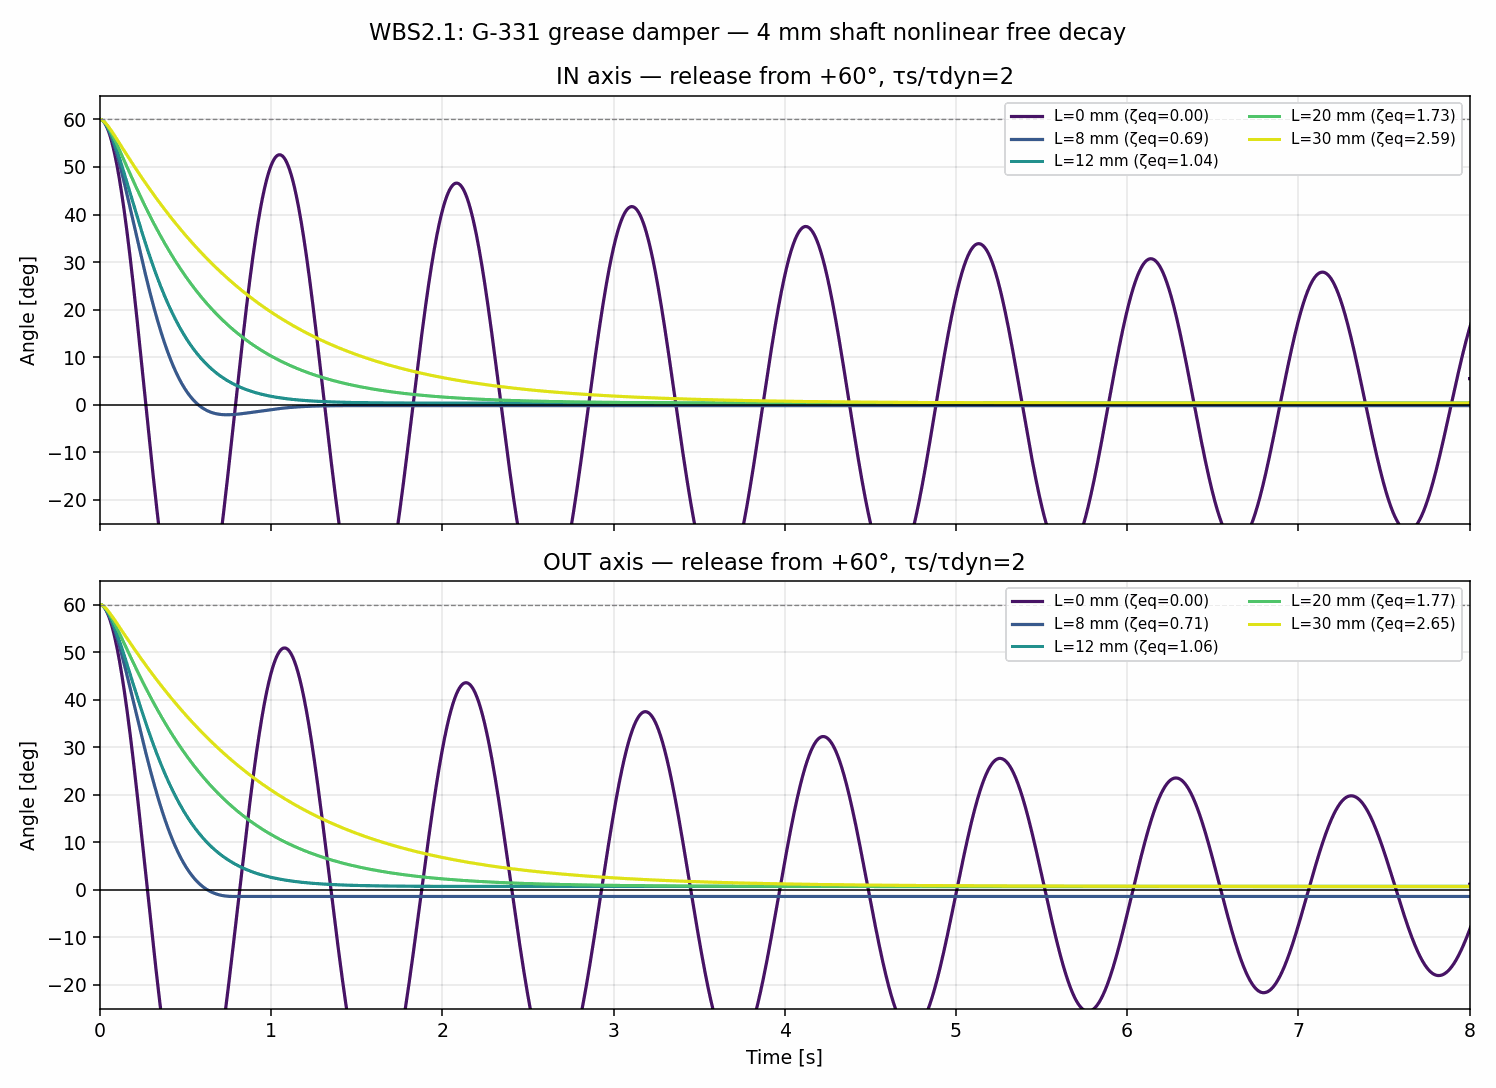
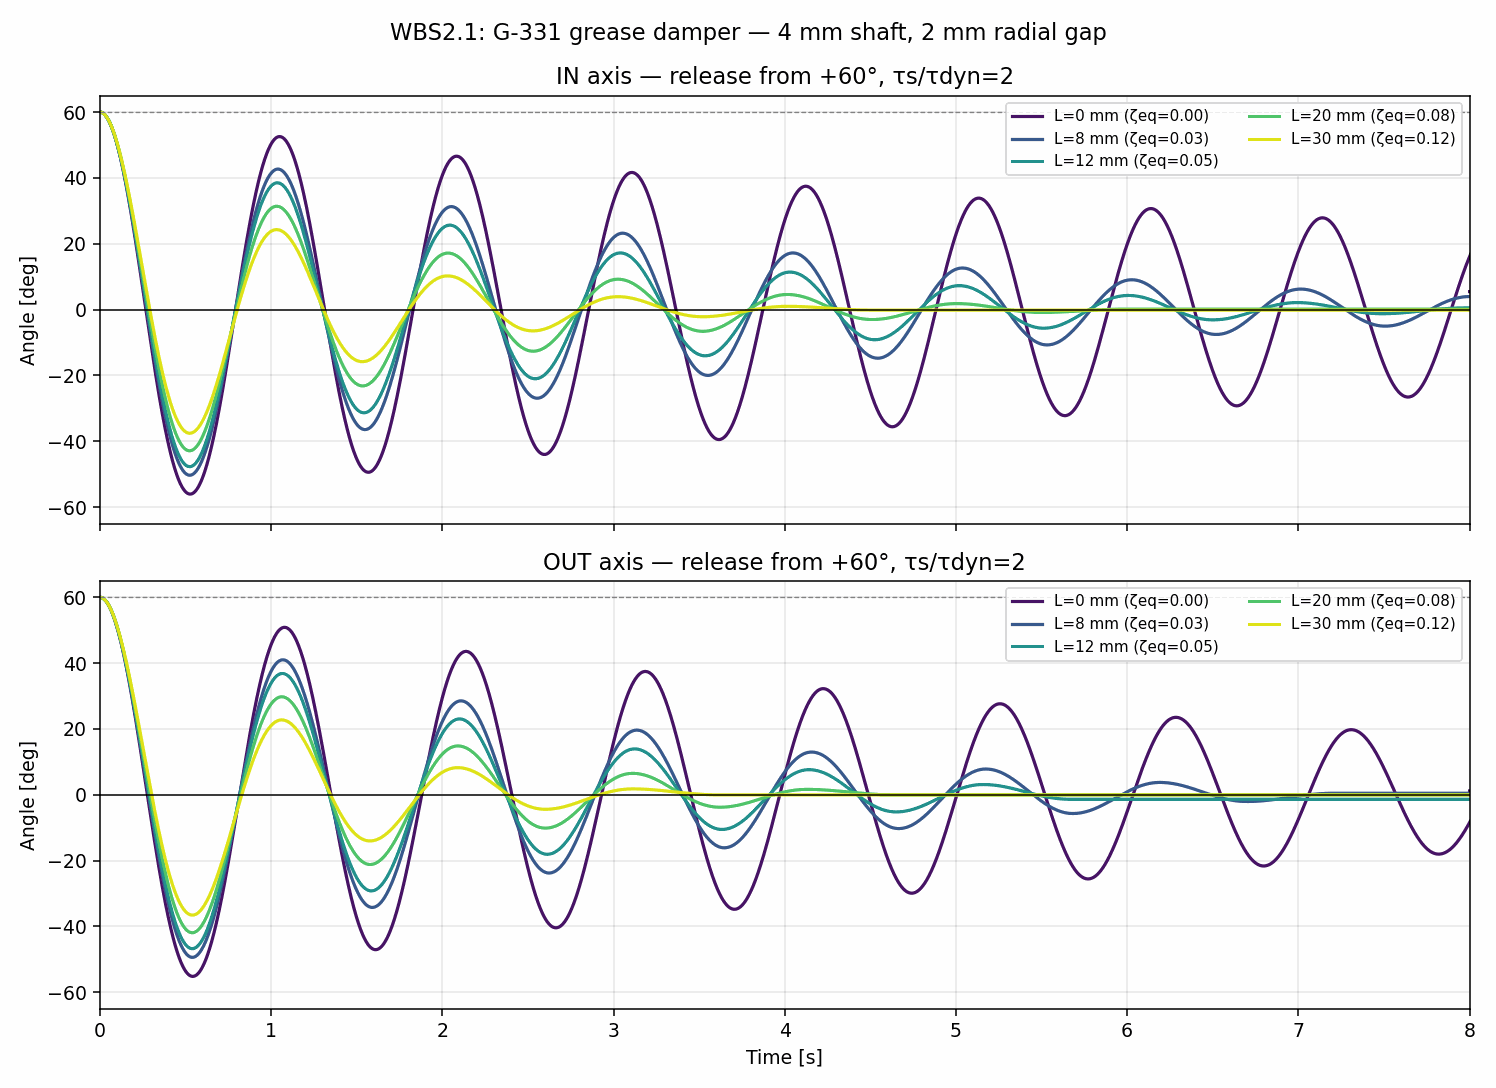
OW-07 WBS2.1: correct damper gap to 2 mm

diff --git a/06_Analysis/simulation/src/run_ow07_wbs21_grease_damper_free_decay.py b/06_Analysis/simulation/src/run_ow07_wbs21_grease_damper_free_decay.py
@@ -17,8 +17,10 @@ CONFIG = ROOT / "06_Analysis/simulation/config/hbk_model_coefficients.json"
 OUT_DIR = ROOT / "06_Analysis/simulation/results/observer_wind/ow07_hardware_bandwidth_design"
 
 # Shin-Etsu G-331 reference test: 4 mm shaft, 8 mm grease contact length,
-# 35 um clearance, 10 rpm running torque 34 x 10^-4 N m.
+# 35 um radial clearance, 10 rpm running torque 34 x 10^-4 N m.
 SHAFT_DIAMETER_MM = 4.0
+REFERENCE_GAP_MM = 0.035
+DESIGN_GAP_MM = 2.0  # interpreted as radial clearance
 REFERENCE_CONTACT_MM = 8.0
 REFERENCE_TORQUE_NM = 34e-4
 REFERENCE_RPM = 10.0
@@ -37,10 +39,23 @@ def load_ball_records():
 
 
 def equivalent_b(length_mm: float) -> float:
-    """Linear b surrogate using the catalog torque at 10 rpm and length scaling."""
+    """Ideal annular-Couette scaling of the catalog torque to the design gap.
+
+    This is only a geometric shear proxy: G-331 is a grease and the catalog
+    provides neither viscosity nor a torque-speed curve. Torque per length
+    scales with a^2 R^2/(R^2-a^2) for Newtonian annular Couette flow.
+    """
     omega = REFERENCE_RPM * 2.0 * math.pi / 60.0
-    return (REFERENCE_TORQUE_NM / omega
-            * length_mm / REFERENCE_CONTACT_MM)
+    shaft_radius = SHAFT_DIAMETER_MM / 2.0
+
+    def geometry_factor(gap_mm):
+        outer_radius = shaft_radius + gap_mm
+        return (shaft_radius**2 * outer_radius**2
+                / (outer_radius**2 - shaft_radius**2))
+
+    gap_ratio = geometry_factor(DESIGN_GAP_MM) / geometry_factor(REFERENCE_GAP_MM)
+    return (REFERENCE_TORQUE_NM / omega * length_mm / REFERENCE_CONTACT_MM
+            * gap_ratio)
 
 
 def half_cycle(I, K, c_quad, tau_dyn, b, theta, t_start):
@@ -135,6 +150,8 @@ def write_results(records):
                 result = free_decay(record, b, ratio)
                 rows.append({
                     "shaft_diameter_mm": SHAFT_DIAMETER_MM,
+                    "radial_gap_mm": DESIGN_GAP_MM,
+                    "reference_radial_gap_mm": REFERENCE_GAP_MM,
                     "grease_contact_length_mm": length,
                     "grease": "Shin-Etsu G-331",
                     "axis": axis,
@@ -174,12 +191,12 @@ def plot_timeseries(records):
         ax.axhline(60.0, color="gray", linewidth=0.7, linestyle="--")
         ax.set_title(f"{axis} axis — release from +60°, τs/τdyn=2")
         ax.set_ylabel("Angle [deg]")
-        ax.set_ylim(-25, 65)
+        ax.set_ylim(-65, 65)
         ax.grid(True, alpha=.3)
         ax.legend(loc="upper right", ncol=2, fontsize=8)
     axes[-1].set_xlabel("Time [s]")
     axes[-1].set_xlim(0, PLOT_DURATION_S)
-    fig.suptitle("WBS2.1: G-331 grease damper — 4 mm shaft nonlinear free decay")
+    fig.suptitle("WBS2.1: G-331 grease damper — 4 mm shaft, 2 mm radial gap")
     fig.tight_layout()
     image_path = OUT_DIR / "wbs21_grease_damper_free_decay.png"
     fig.savefig(image_path, dpi=136)
@@ -196,6 +213,9 @@ def main():
     rows = write_results(records)
     plot_timeseries(records)
     print(f"Wrote {len(rows)} nonlinear free-decay cases")
+    omega_ref = REFERENCE_RPM * 2.0 * math.pi / 60.0
+    gap_scale = equivalent_b(REFERENCE_CONTACT_MM) / (REFERENCE_TORQUE_NM / omega_ref)
+    print(f"annular-Couette geometry ratio (2 mm / 35 um) = {gap_scale:.5f}")
     for length in (8.0, 12.0, 20.0, 30.0):
         b = equivalent_b(length)
         print(f"L={length:>4.0f} mm: b_eq={b*1e3:.3f} mN m s/rad")

diff --git a/06_Analysis/simulation/results/observer_wind/ow07_hardware_bandwidth_design/wbs21_grease_damper_free_decay.md b/06_Analysis/simulation/results/observer_wind/ow07_hardware_bandwidth_design/wbs21_grease_damper_free_decay.md
@@ -1,75 +1,75 @@
-# OW-07 WBS2.1 — 4 mmシャフト・グリスダンパーの自由振動評価
+# OW-07 WBS2.1 — 4 mmシャフト・グリスダンパーの自由振動評価（すきま2 mmに修正）
 
 ## 結論
 
-現行の錘・球・軸係数を保ち、直径4 mmのシャフトをG-331グリスで囲う案を、+60°からの非線形自由振動で評価した。メーカーの基準トルクを等価な線形粘性係数に換算したモデルでは、**グリス接触長12 mmでIN/OUT両軸とも平衡点を越えず停止**した。等価減衰比はIN 1.04、OUT 1.06で、小振幅線形モデルでも臨界減衰をわずかに上回る。
+前回の35 µmすきまを前提にした「12 mmで臨界相当」という結論は撤回する。35 µmはメーカーの基準試験条件であり、実装上想定する約2 mmのすきまとは異なる。
 
-12 mmの計算余裕は大きくない。接触長15 mmでは等価減衰比がIN 1.30、OUT 1.33となる。グリスの実トルクは速度・温度・塗布状態で変わるため、設計候補としては**4 mm径・接触長15 mm**を余裕側、**12 mm**を最小の臨界相当候補として残す。現時点ではメーカー試験値を使った机上推定であり、実機のダンパー性能を保証する結果ではない。
+直径4 mmシャフト、半径方向すきま2 mm、接触長の上限30 mmで見積もると、現行の錘・球・軸係数では等価減衰比はIN 0.118、OUT 0.121にとどまる。+60°からの自由振動は平衡点をそれぞれ9回、7回通過し、過減衰にも臨界減衰にもならない。現行ハードのまま許容長0〜30 mmを振るだけでは要求に届かない。
 
-## 計算条件
+錘だけの変更についても、8 m/s時に±60°以内を満たす復元係数を維持しながら臨界条件へ近づけるには、理想的に錘を支点へ寄せても必要な等価粘性係数は約5.5 mN·m·s/rad以上となる。2 mmすきま・30 mm長の概算値0.554 mN·m·s/radの約10倍であり、錘だけでは埋まらない。次は合意済みの順序に従い、球の小型化を含む組合せを評価する。
 
-- 現行BALL係数（20260921採用モデル）を使用。錘、球、支柱の寸法・質量は変更していない。
-- 各軸の初期条件は`θ(0)=+60°`, `θ̇(0)=0`。
-- 非線形運動方程式:
+## 条件とモデル
+
+- シャフト径4 mm、接触長0〜30 mm。実装すきまは**半径方向2 mm**と解釈した。2 mmが直径方向の寸法を指す場合は別条件になる。
+- 現行BALL係数を使用。IN/OUTの`I`, `K`, `c_quad`, `τ_dyn`は係数JSONから読み込む。錘・球の寸法はこの節では変更しない。
+- 初期条件は`θ(0)=+60°`, `θ̇(0)=0`。静止摩擦は`τ_s/τ_dyn = 1, 1.5, 2`の感度条件。
+- 非線形自由振動方程式:
 
 ```text
-I θ¨ + K sin(θ) + b_eq θ˙ + c |θ˙| θ˙ + τ_dyn sgn(θ˙) = 0
+I θ¨ + K sin(θ) + b_eq θ˙ + c_quad |θ˙| θ˙ + τ_dyn sgn(θ˙) = 0
 ```
 
-- 停止時の静止摩擦は`τ_s/τ_dyn = 1, 1.5, 2`を感度ケースとして計算。これらは測定値や確率区間ではない。
-- 接触長`L=0, 8, 10, 12, 15, 20, 30 mm`を比較した。0 mmはグリスダンパーなし。
-- 角度は運動中の符号付き摩擦を含めて数値積分し、速度が十分小さくなった折返し点で`|K sin θ| ≤ τ_s`なら停止として扱った。
+- 各折返し点で`|K sin(θ)| ≤ τ_s`なら静止摩擦で停止できるものとして終了する。
 
-### 現行係数と臨界減衰
+### 現行係数
 
 | 軸 | `I` [kg·m²] | `K` [N·m/rad] | 固有振動数 [Hz] | `b_crit=2√(IK)` [mN·m·s/rad] |
 |---|---:|---:|---:|---:|
 | IN | 3.6821×10⁻⁴ | 0.014963 | 1.015 | 4.695 |
 | OUT | 3.7094×10⁻⁴ | 0.014221 | 0.985 | 4.594 |
 
-### グリス抵抗からの換算
+### カタログ値からの概算換算
 
-信越化学のG-331標準試験は、直径4 mmのシャフト、接触長8 mm、すきま35 µmで、10 rpm時のトルクが`34×10⁻⁴ N·m = 3.4 mN·m`である。カタログはG-330系を温度変化に対するトルク変化が小さい高粘着グリスとし、G-331を高せん断抵抗品、使用温度を−30〜+150℃、未混和ちょう度を305、油分離率を0.01%としている。[信越化学カタログ](https://www.shinetsusilicone-global.com/catalog/pdf/grease_e.pdf)
+信越化学G-331の標準試験は、直径4 mm、接触長8 mm、すきま35 µm、10 rpm時に3.4 mN·mのトルクを記載している。G-330系について温度変化によるトルク変化が小さいとの説明があるが、カタログに温度別の値や速度—トルク曲線はない。使用温度表示は−30〜+150℃である。出典: [信越化学シリコーングリースカタログ](https://www.shinetsusilicone-global.com/catalog/pdf/grease_e.pdf)。
 
-この一点のトルク値を10 rpmの角速度で割り、接触長に比例すると仮定した等価係数を使う。
+この一点を角速度で割った基準係数は、8 mm長で`b_ref = 3.247 mN·m·s/rad`。半径`a`のシャフトと外半径`R=a+h`の静止円筒間をニュートン流体が層流せん断する理想環状Couetteモデルでは、トルク/角速度/長さは幾何因子`a²R²/(R²−a²)`に比例する。したがって、2 mmすきまと35 µmすきまの幾何因子比は0.04547となり、次の概算を得る。
 
 ```text
-ω_ref = 10 × 2π/60 = 1.0472 rad/s
-b_ref = 3.4 mN·m / ω_ref = 3.247 mN·m·s/rad  (L=8 mm)
-b_eq(L) = b_ref × L/8 mm
+b_eq(L) = b_ref × (L/8 mm) × 0.04547
+b_eq(30 mm) = 0.554 mN·m·s/rad
 ```
 
-この線形式は、グリスのトルクが全速度域で速度比例し、長さ方向に一様にせん断するという仮定である。メーカーカタログの10 rpm試験は、速度―トルク曲線や温度ごとの数値を与えない。そのため`b_eq`は自由振動シミュレーション用の等価値であり、グリスの材料粘度そのものではない。
+これはG-331の実粘度から導いた材料定数ではない。グリスの非ニュートン性、降伏応力、速度・温度・塗布状態の影響、箱端部の漏れや流れを表現しない**幾何学的なせん断スケーリングによる机上 proxy**であり、実機値の保証ではない。特に35 µmから2 mmへ拡大した条件への外挿なので、精度は限定的である。
 
 ## 結果
 
-表は静止摩擦比2のケース。接触長10 mmも今回のモデルでは両軸で平衡点を越えず停止したが、`ζ_eq<1`であり、古典的な臨界減衰条件には届かない。大振幅での空力二乗抵抗と乾性摩擦も減衰に寄与した結果である。12 mmは小振幅の臨界値を両軸で上回る最小の比較長さだった。
+| 接触長 [mm] | `b_eq` [mN·m·s/rad] | `ζ_eq` IN / OUT | 最初の反対側ピーク IN / OUT | +60°からの平衡点通過回数 IN / OUT |
+|---:|---:|---:|---:|---:|
+| 0 | 0 | 0 / 0 | −56.06° / −55.17° | 40 / 26 |
+| 8 | 0.148 | 0.031 / 0.032 | −50.33° / −49.38° | 21 / 14 |
+| 12 | 0.221 | 0.047 / 0.048 | −47.72° / −46.75° | 16 / 11 |
+| 20 | 0.369 | 0.079 / 0.080 | −42.91° / −41.91° | 12 / 9 |
+| 30 | 0.554 | 0.118 / 0.121 | −37.58° / −36.55° | 9 / 7 |
 
-| 接触長 [mm] | `b_eq` [mN·m·s/rad] | `ζ_eq` IN / OUT | +60°からの応答（IN / OUT） | 停止角 [deg] IN / OUT | 停止時間 [s] IN / OUT |
-|---:|---:|---:|---|---:|---:|
-| 0 | 0 | 0 / 0 | 両軸で振動 | 未収束 / +1.18 | 20 s計算区間で未収束 / 13.41 |
-| 8 | 3.247 | 0.692 / 0.707 | 平衡点を通過。反対側最大−2.13° / −1.38° | −0.21 / −1.38 | 1.42 / 0.78 |
-| 10 | 4.058 | 0.865 / 0.884 | 平衡点を越えず停止 | +0.11 / +0.60 | 1.07 / 1.19 |
-| 12 | 4.870 | 1.037 / 1.060 | 平衡点を越えず停止 | +0.30 / +0.71 | 2.95 / 3.19 |
-| 15 | 6.088 | 1.297 / 1.325 | 平衡点を越えず停止 | +0.30 / +0.71 | 4.35 / 4.60 |
-| 20 | 8.117 | 1.729 / 1.767 | 平衡点を越えず停止 | +0.30 / +0.71 | 6.16 / 6.48 |
-| 30 | 12.175 | 2.594 / 2.651 | 平衡点を越えず停止 | +0.30 / +0.71 | 9.35 / 9.81 |
+30 mmでの減衰比は1より十分小さい。単純な長さ比例を上限外へ延長した参考値では、線形臨界係数に届く接触長はIN約254 mm、OUT約249 mmとなり、指定上限30 mmを大きく超える。この外挿もグリスの実特性を保証しない。大振幅の二乗空力抵抗と乾性摩擦により、折返しごとの振幅は小さくなるが、これは古典的な臨界減衰を実現したことを意味しない。静止摩擦比1、1.5、2で計算した各接触長の停止判定はCSVに含めた。
 
-`τ_s/τ_dyn=1`および1.5でも、今回比較した10 mm以上の各接触長では両軸の平衡点通過はなかった。10 mmはこの接触長グリッド内で無通過となった最短値であり、厳密な限界寸法とは扱わない。
+![半径方向2 mmすきまに修正した各接触長の+60°自由振動](wbs21_grease_damper_free_decay.png)
 
-![各接触長で+60°から解放したIN/OUT自由振動](wbs21_grease_damper_free_decay.png)
+## 錘だけを変える場合の下限確認
 
-### 10 Hz応答への参考値
+現行の直径100 mm球と幾何腕長174 mmを維持し、`Cd=0.544`、空気密度1.225 kg/m³で8 m/s時の球風トルクを約0.0291 N·mと置く。±60°内に5%の復元トルク余裕を持たせる復元係数は約0.0353 N·m/radとなる。この条件を満たすために錘モーメントを増やすと、錘単独の`I`と合わせた`b_crit`は増える。
 
-線形化したトルク―角度伝達関数`1/(K−Iω²+j bω)`で比較すると、10 Hzでの角度振幅は静的角度ゲインの約1%である。12 mm接触長による追加変化は、ダンパーなしに対して約−0.2 dB、30 mmでは約−1.1 dBだった。これは力学プラント単体の小信号値であり、推定器を含む10 Hz風速推定の合否を示すものではない。10 Hz応答性は次段で推定誤差・ノイズと合わせて評価する。
+錘を支点へ寄せた極限では、追加錘の慣性寄与は小さくできるが、現行係数から錘慣性だけを差し引いて残る慣性と上記`K`から、`b_crit`の理想下限でもIN約5.51、OUT約5.55 mN·m·s/radとなる。これは30 mmダンパー概算値の約10倍である。実寸・支持強度・錘の体積を考えない下限で既に届かないため、現行球を保った錘変更だけは解なしと判定する。
 
-## 解釈と次の確認
+この下限は静的風トルクの近似と現行の同定係数に依存する。過減衰を実証するものではなく、次の球小型化へ進む理由を確認するスクリーニングである。球を小さくすると風トルクと重力・慣性が同時に変わり、必要な錘条件、起動風速、静止摩擦による不感帯も再計算が必要になる。
 
-1. 4 mmシャフトでは、標準トルク試験の接触すきま35 µmを再現できるなら、12 mmの接触長で臨界相当の減衰を得る見込みがある。余裕を持たせる候補長は15 mm。
-2. 8 mmは不足し、両軸で反対側へ振れた。長さを増やすとオーバーシュートは抑えられる一方、停止までの時間は伸びる。30 mmは今回の候補の中で停止時間が最長。
-3. G-331の温度変化に対するトルク変動が小さいというカタログ説明には、数値化された温度別トルク曲線がない。温度範囲内の減衰係数変動は今回未評価。
-4. グリスのせん断は低速で非線形・履歴依存になる可能性がある。計算はメーカーの単一回転速度トルクを粘性係数へ換算したため、実際の低速粘性・ブレークアウェイ・戻りトルクは保証しない。
-5. よって次の段階では、実装すきま・グリス保持箱の形状を確定し、速度と温度で変化するトルクを取得するか、メーカーに追加データを確認する必要がある。WBS2.1の結論は「机上モデルで候補あり」であり、製作成立性・推定性能の確定ではない。
+## 限界と次段
+
+- 2 mmのすきまが半径方向か直径方向かは製作図で確定が必要。本計算では半径方向とした。
+- G-331の単一速度・単一すきまトルクからのスケーリングであり、温度変化が小さいというメーカー説明だけでは設計値の温度係数は得られない。
+- 静止摩擦は実測値ではなく、既存の運動摩擦に対する比1、1.5、2の感度条件。
+- 10 Hzの推定器込み応答性能、グリス箱の漏れ・封止・圧力上昇、軸の曲げ・組立公差、必要な実トルクは未検証。
+- 次段では球径を下げ、同密度の質量、`I`, `K`, 8 m/s静的角度、軸摩擦起動風速と自由振動を一緒に再計算する。小型球で不感帯が目標を損ねる場合は、4 mmシャフトのグリスダンパー案自体を再検討する。
 
 ## 再現
 
@@ -77,8 +77,6 @@ b_eq(L) = b_ref × L/8 mm
 python 06_Analysis/simulation/src/run_ow07_wbs21_grease_damper_free_decay.py
 ```
 
-生成物:
-
-- `wbs21_grease_damper_free_decay.csv` — 42条件（接触長7 × 軸2 × 静止摩擦比3）の数値要約
-- `wbs21_grease_damper_free_decay.png` — 静止摩擦比2での全接触長の時系列
-- `../../../src/run_ow07_wbs21_grease_damper_free_decay.py` — シミュレーションコード
+- `wbs21_grease_damper_free_decay.csv` — 接触長7条件 × 軸2 × 静止摩擦比3の42ケース
+- `wbs21_grease_damper_free_decay.png` — 静止摩擦比2のIN/OUT時系列
+- `../../../src/run_ow07_wbs21_grease_damper_free_decay.py` — 再実行スクリプト

diff --git a/06_Analysis/simulation/results/observer_wind/ow07_hardware_bandwidth_design/README_ja.md b/06_Analysis/simulation/results/observer_wind/ow07_hardware_bandwidth_design/README_ja.md
@@ -2,7 +2,7 @@
 
 ## 状態と目的
 
-- 状態: WBS 1.xはユーザー判断で終了。ダンパーなしのWBS1.1では、探索した候補範囲内に両軸が平衡点を越えず停止する解は見つからなかった。WBS2.1ではG-331グリスを用いた直径4 mmシャフトの自由振動を机上シミュレーションし、接触長12 mmで臨界相当、15 mmで余裕側の候補を得た。詳細は[WBS2.1レポート](wbs21_grease_damper_free_decay.md)。
+- 状態: WBS 1.xはユーザー判断で終了。WBS2.1の初回35 µm前提は、実装すきま約2 mmとの指摘を受けて撤回した。半径方向2 mmを置いた再計算では、現行球・錘のまま接触長30 mmでも減衰比は0.12程度で、臨界減衰には届かない。錘だけの変更も静的8 m/s条件を保つ限り不足するため、球小型化の評価へ進む。詳細は[WBS2.1修正版レポート](wbs21_grease_damper_free_decay.md)。
 - ブランチ: `ow07-hardware-bandwidth-design`
 - 目的: 最大約8 m/s・可動±60°・10 Hz応答を目標に、IN/OUTシャフト周囲のグリス箱で粘性減衰を加える条件を探す。基本寸法は現行ハードを保ち、シャフト長0〜30 mm・径2〜5 mmを先に振り、必要な場合は錘サイズ、球サイズの順で変更する。WBS1.xで評価した質量配置のみの案と、粘性ダンパー案は別機構として扱う。
 
@@ -78,9 +78,9 @@ WBS 0.1〜0.3の基準値、静止摩擦トルク推定幅、判定目標は[WBS
 | 1.3 | `I`,`K`,`τ`相対効果の評価 | WBS1.x終了により未実施。|
 | 1.4 | 動的性能と誤差の評価 | WBS1.x終了により未実施。|
 | 1.5 | 最小変更の成立性ゲート | WBS1.x終了により未実施。|
-| 2.1 | グリスダンパー自由振動の机上評価 — 完了 | 現行BALL係数、直径4 mmシャフト、G-331標準試験トルクを等価粘性係数へ換算し、接触長0〜30 mm、静止摩擦比1/1.5/2で+60°から数値積分した。12 mmで両軸が平衡点を越えず停止し、15 mmで等価減衰比ζ=1.30/1.33。グリスの非線形性・温度別の実トルク曲線は未確認。詳細は[WBS2.1レポート](wbs21_grease_damper_free_decay.md)。|
-| 2.2 | グリス箱・シャフトの実装性評価 | 4 mmシャフト案を基に、グリス接触すきま・長さ・保持構造、温度および速度による実トルク変化を整理する。等価粘性モデルとグリスの実測／メーカー値の違いを明記する。|
-| 2.3 | 必要時の質量変更と総合評価 | シャフト長の範囲で成立しない場合、錘サイズ、次に球サイズの順で変更し、同一条件で角度、停止、起動摩擦、不感帯、応答性を再評価する。|
+| 2.1 | グリスダンパー自由振動の机上評価 — 修正済 | 4 mmシャフト、半径方向2 mmすきま、接触長0〜30 mmをG-331標準トルクから理想環状Couette幾何比で概算し、+60°から数値積分した。現行球・錘では30 mmでもζ=0.118/0.121で不足。8 m/s静的条件に必要な復元係数を保つ錘だけの変更でも、理想下限の臨界係数は実現値の約10倍。グリスの非ニュートン性・速度/温度別トルクは未確認。詳細は[WBS2.1レポート](wbs21_grease_damper_free_decay.md)。|
+| 2.2 | 必要時の質量変更と総合評価 | シャフト長0〜30 mm、4 mm径と現行球・錘では不足。錘だけの変更でも解がないため、順序に従って球径を下げ、同密度質量、I/K、静的角度、起動風速、不感帯、+60°自由振動を再計算する。|
+| 2.3 | 実装性・温度速度特性の確認 | 候補が残る場合、4 mmシャフト案を基にグリス箱の保持・封止・組立公差と温度/速度による実トルク情報を整理し、机上モデルの限界を明記する。|
 | 3.1 | 推奨試作案 | WBS 1で目標を満たせば最小変更案を、未達でWBS 2が成立するならダンパー案を、必要寸法・質量・減衰係数と未確認事項付きで提案する。製作・購入は別途判断とする。|
 
 ## スコープ
